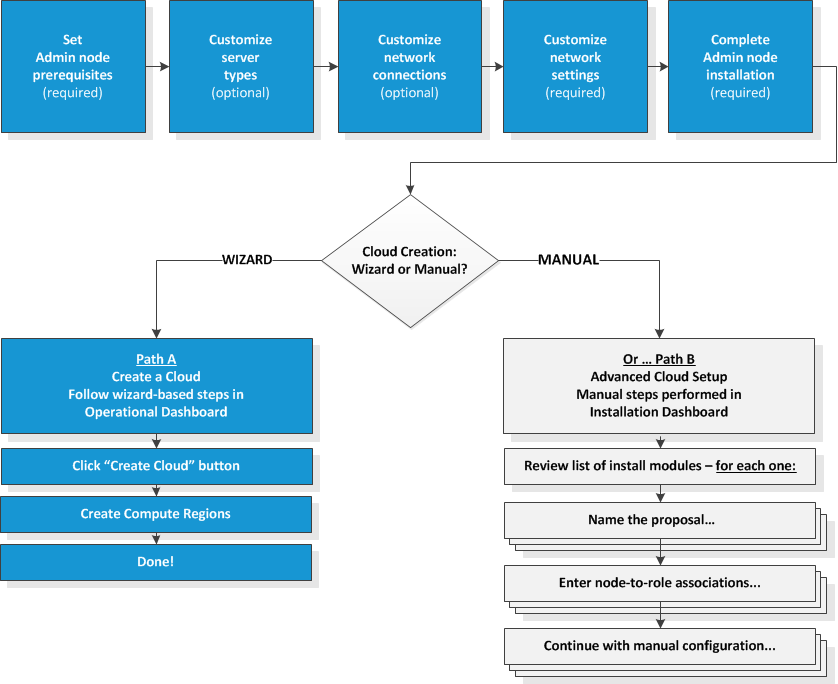
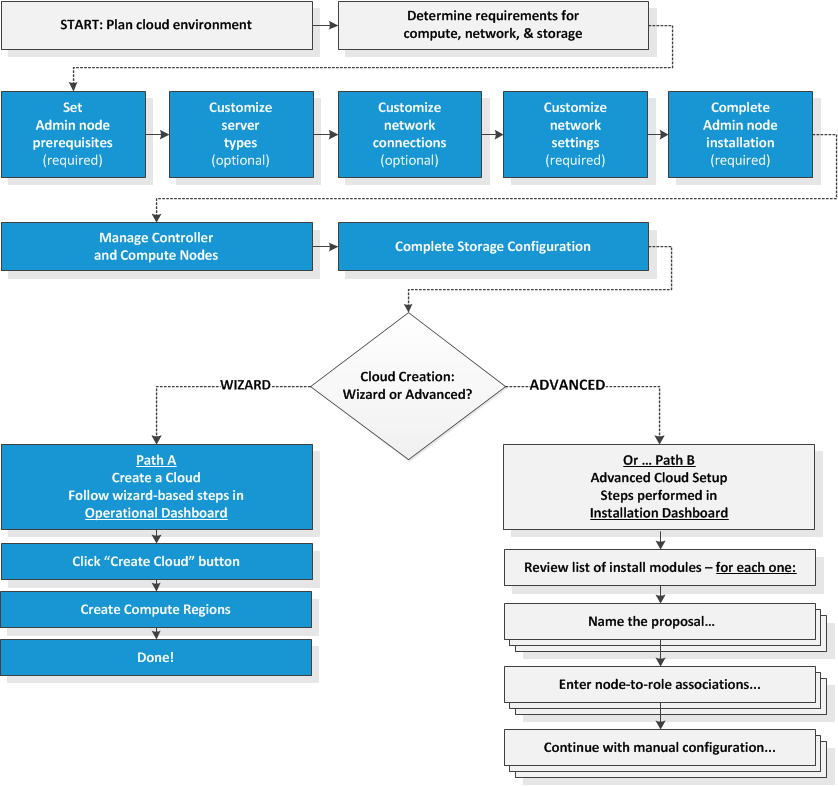
revised install graphic and prep steps

diff --git a/cloudos/install.beforeyouinstall.md b/cloudos/install.beforeyouinstall.md
@@ -8,7 +8,97 @@ product: cloudos
 
 # Before You Install
 
-Before you can start working in the HP Cloud OS Operational Dashboard, you must set up the VM guest and boot the Admin Node from the HP Cloud OS ISO. 
+Before you can start working in the HP Cloud OS Operational Dashboard, you must:
+
+* [Plan the Infrastructure for a Cloud](#plan-the-infrastructure-for-a-cloud)
+* [Set up the VM guest](#set-up-the-vm-guest)
+* [Boot the Admin Node Using the HP Cloud OS ISO](#boot-the-admin-node-using-the-hp-cloud-iso)
+* [Launch the Operational Dashboard](#launch-the-operational-dashboard)
+
+## Plan the Infrastructure for a Cloud
+
+For the simplest deployment, a cloud environment requires a Cloud Administration Node (Admin Node), a Controller Node, and a set of Compute Node(s). You may need support from your IT
+Administrator to correctly capture information about your environment.
+
+You need to determine the type of cloud you want to create for your organization: private, public, or hybrid. See the [Introduction to Cloud Types](/cloudos/cloudtypes/). 
+
+Then, based on the type of cloud you intend to create, you can determine the requirements for the server, network, and storage infrastructures 
+that are described and illustrated in the following sections:
+
+* [Server Infrastructure](#server-infrastructure)
+* [Network Infrastructure](#network-infrastructure)
+* [Storage Infrastructure](#storage-infrastructure)
+
+### Server Infrastructure
+
+<table style="text-align: left; vertical-align: top;">
+
+<tr style="background-color: #1796D3;">
+<th>Node Type</th>
+<th>Virtual/Physical Node</th>
+<th>CPU Cores</th>
+<th>Memory</th>
+<th>NICs</th>
+<th> <nobr>  OS (included as part of ISO)  </nobr></th>
+</tr>
+
+<tr style="background-color: white; color: black;">
+<td> Admin Node </td>
+<td> Virtual Only </td>
+<td> >= 4</td>
+<td> >= 12 GB </td>
+<td> >= 2 * </td>
+<td> Ubuntu Server 12.04 LTS (64-bit) </td>
+</tr>
+
+<tr style="background-color: white; color: black;">
+<td> Controller Node **** </td>
+<td> Virtual or Physical </td>
+<td> >= 4 </td>
+<td> >= 32 GB </td>
+<td> >= 1 ** </td>
+<td> Ubuntu Server 12.04 LTS (64-bit) </td>
+</tr>		
+
+<tr style="background-color: white; color: black;">
+<td> Compute Node **** </td>
+<td> Physical Only </td>
+<td> >= 4 *** </td>
+<td> 32 GB </td>
+<td> >= 1 </td>
+<td> Ubuntu Server running KVM hypervisor 12.04 LTS (64-bit) </td>
+</tr>	
+
+</table> 
+
+**Note:** HP recommends identical set of hardware for both compute and controller nodes.
+
+\* External Internet Connection Required
+
+\*\* External Internet Connection Required for Hybrid Cloud/HP Cloud (Public) Usage
+
+\*\*\* Intel or AMD Hardware Virtualization Support Required. The CPU Cores and Memory
+requirements must be sized based on the VM instances hosted by the compute node.
+
+\*\*\*\* HP recommends using hardware that is Ubuntu certified. See the [Support Matrix](/cloudos/supportmatrix/) for a list of compatible servers.
+
+### Network Infrastructure
+
+Intro coming...
+
+#### Switch Configuration
+
+Your environment must provide physical switches and wiring for 3 to 4 networks, depending on the cloud configuration. Or the environment must support the 802.1Q specification (VLAN
+tagging/trunking) for tagged networks.
+
+#### Network Configuration
+
+Table coming next...
+
+### Storage Infrastructure
+
+Table coming next...
+
 
 ## Set Up the VM Guest
 

diff --git a/cloudos/install.customize-network-connections.md b/cloudos/install.customize-network-connections.md
@@ -130,8 +130,22 @@ Here's a partial example of how the Team mode configuration could look on this C
 
 ### Interface Mode
 
-The Interface Mode signifies how traffic sent out of the bonded interface is dispersed over the actual interfaces.
+Interface Mode refers to the default teaming algorithm to use for the bonding driver in Linux. The default value is 6, which indicates that 
+teaming uses the "adaptive load balancing" algorithm. Other values used with teaming are not supported in this Cloud OS release. 
 
+* 0: Round-robin policy (balance-rr)
+* 1: Active backup policy (active-backup)
+* 2: XOR policy (balance-xor)
+* 3: Broadcast policy (broadcast)
+* 4: IEEE 802.3ad Dynamic link aggregation (802.3ad)
+* 5: Adaptive transmit load balancing (balance-tlb)
+* 6: Adaptive load balancing (balance-alb) &mdash; Mode 6 includes balance-tlb + receive load balancing (rlb) for IPV4 traffic. 
+The receive load balancing is achieved by ARP negotiation. The bonding driver intercepts the ARP Replies sent by the server on their 
+way out and overwrites the src hw address with the unique hardware address of one of the slaves in the bond such that different clients use 
+different hardware addresses for the server.
+
+
+<!-- 
 * **Mode 0 (balance-rr)**
 
 > Mode means the packets are transmitted in sequential order from the first available slave through the last. If two real interfaces are slaves in the 
@@ -167,6 +181,8 @@ slave interface. Incoming traffic is received by the current slave.
 > Mode 6 is also called Adaptive load balancing. This mode includes balance-tlb + receive load balancing (rlb) for IPV4 traffic. 
 The receive load balancing is achieved by ARP negotiation. The bonding driver intercepts the ARP Replies sent by the server on their 
 way out and overwrites the src hw address with the unique hw address of one of the slaves in the bond such that different clients use different hw addresses for the server.
+
+--> 
 
 ## Edit Connections
 
